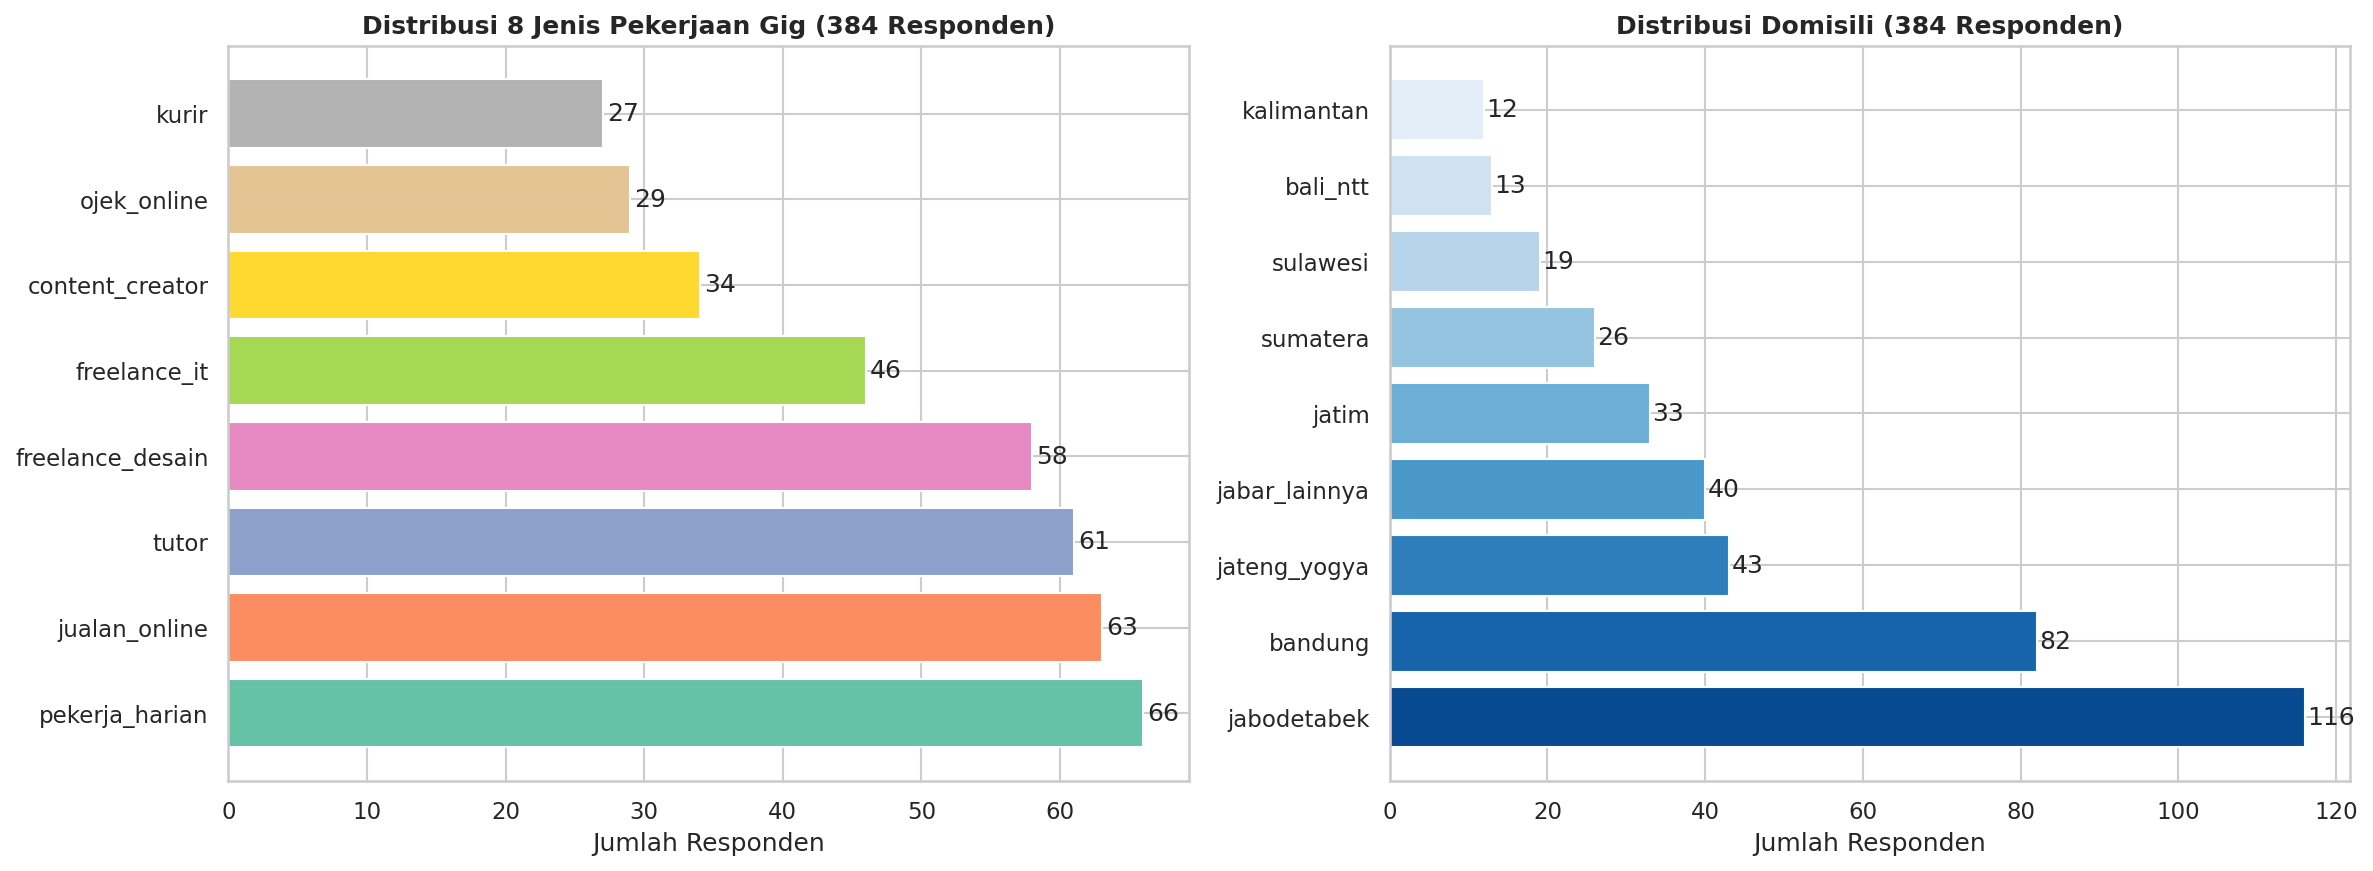
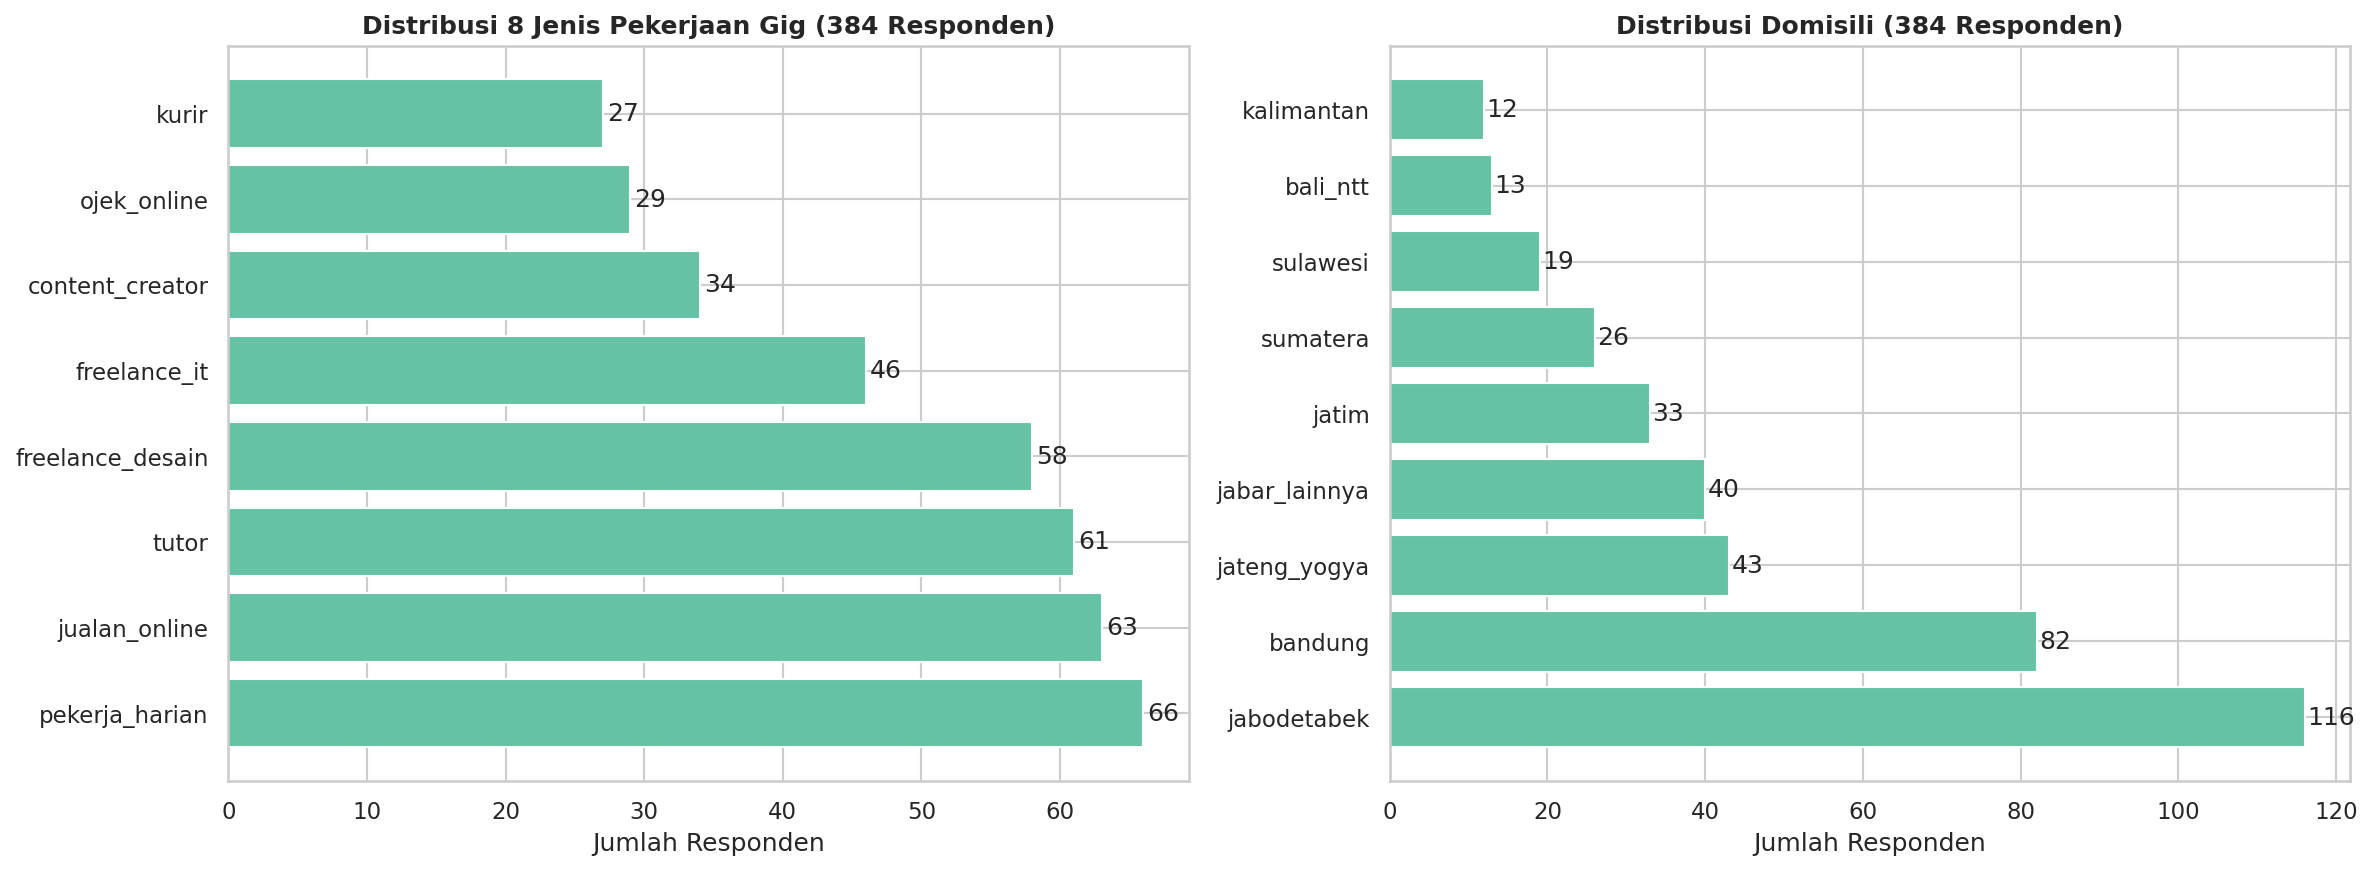
feat(DS2): output dari 03_EDA_Survey.ipynb

Changed region(s): [[0.0936, 0.093, 0.4678, 0.775], [0.5613, 0.093, 0.9979, 0.868]]

diff --git a/outputs/reports/survey_eda_summary.md b/outputs/reports/survey_eda_summary.md
@@ -1,0 +1,32 @@
+# Survey EDA Summary — Fingo Income Predictor
+
+## Relative Week (W4=terlama, W1=terbaru)
+- W4: mean=Rp 447rb
+- W3: mean=Rp 443rb
+- W2: mean=Rp 456rb
+- W1: mean=Rp 439rb
+
+**Income tertinggi di relative_week: W2**
+
+## Week of Month (1=tgl1-7, ..., 5=tgl29-31)
+- Week 1: mean=Rp 448rb
+- Week 2: mean=Rp 442rb
+- Week 3: mean=Rp 452rb
+- Week 4: mean=Rp 432rb
+- Week 5: mean=Rp 494rb
+
+**Income tertinggi di week_of_month: 5**
+
+## Calendar Month
+- Bulan 4: mean=Rp 449rb
+- Bulan 5: mean=Rp 446rb
+
+## Pola per Gig Type
+- ojek_online: peak relative_week = W4
+- kurir: peak relative_week = W4
+- jualan_online: peak relative_week = W2
+- freelance_desain: peak relative_week = W1
+- freelance_it: peak relative_week = W4
+- content_creator: peak relative_week = W4
+- tutor: peak relative_week = W2
+- pekerja_harian: peak relative_week = W3
